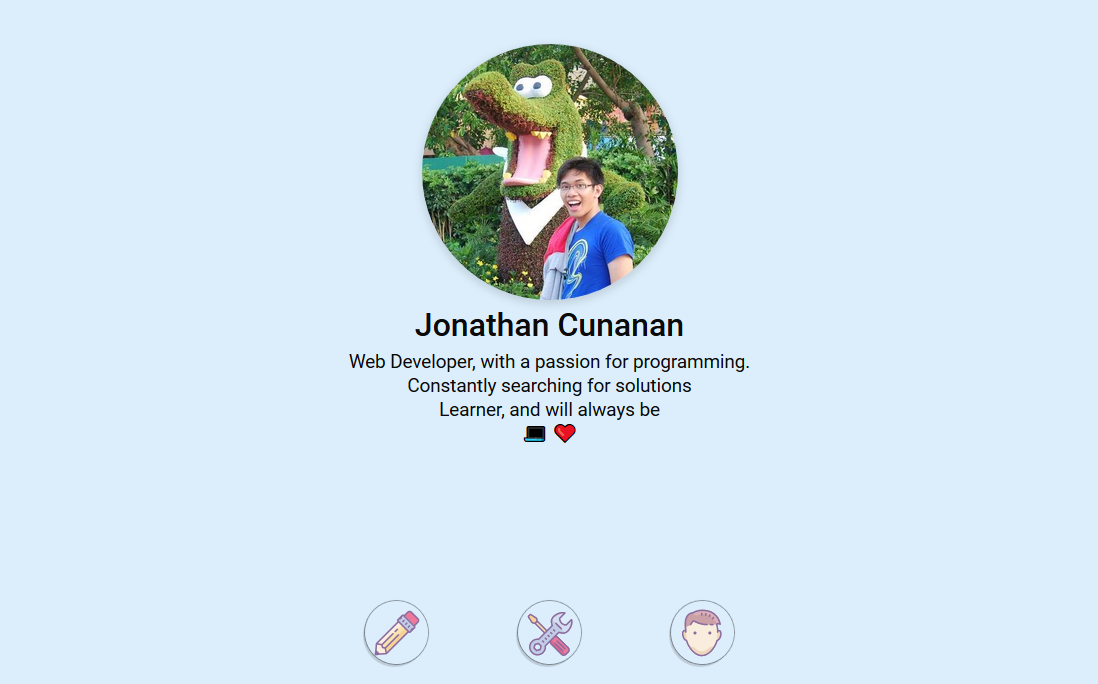
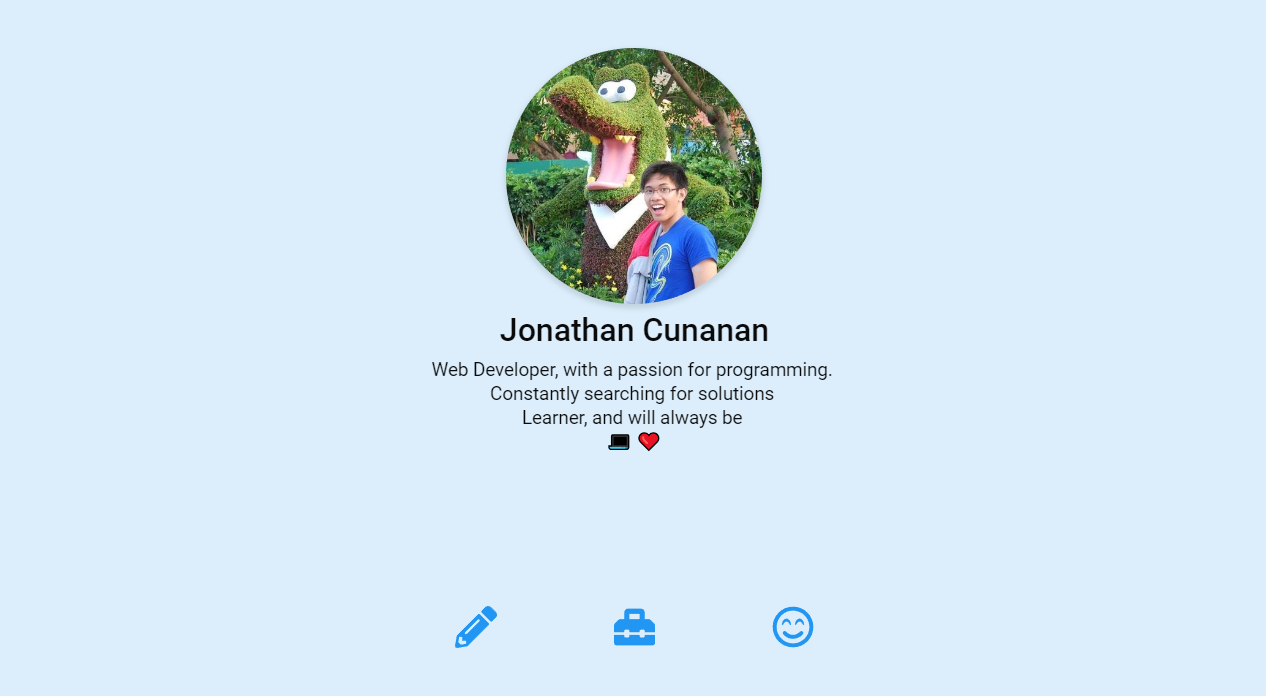
Fix Tiles, Fix Wrong links, Fix Typo on about, Fix broken header

diff --git a/index.html b/index.html
@@ -4,7 +4,7 @@
   <meta charset="UTF-8">
   <meta name="viewport" content="width=device-width, initial-scale=1.0">
   <meta http-equiv="X-UA-Compatible" content="ie=edge">
-  <link rel="stylesheet" href="css/autoprefix.css">
+  <link rel="stylesheet" href="css/style.css">
   <title>Jonathan Cunanan Portfolio</title>
 </head>
 <body>
@@ -25,15 +25,15 @@
             <ul class="navbar__list has-no-bullet">
               <li><a class="navbar-link js-navbar-link" href="#projects">
                 <p class="navbar-link__title is-hidden">Projects</p>
-                <img src="https://png.icons8.com/dusk/50/000000/edit.png" alt="pencil icon">
+                <i class="navbar-link__icon fas fa-pencil-alt" alt="pencil icon"></i>
               </a></li>
               <li><a class="navbar-link js-navbar-link" href="#tools">
                 <p class="navbar-link__title is-hidden">Tools</p>
-                <img src="https://png.icons8.com/dusk/50/000000/maintenance.png" alt="wrench and screw icon">
+                <i class="navbar-link__icon fas fa-toolbox" alt="toolbox icon"></i>
               </a></li>
               <li><a class="navbar-link js-navbar-link" href="#about">
                 <p class="navbar-link__title is-hidden">About</p>
-                <img src="https://png.icons8.com/dusk/50/000000/human-head.png" alt="head icon">
+                <i class="navbar-link__icon far fa-smile-beam" alt="about icon"></i>
               </a></li>
             </ul>
           </nav>
@@ -67,9 +67,9 @@
 
             <li class="project__item">
               <h3 class="project__title">
-                <a href="https://jcunanan05-technical-documentation.glitch.me/" target="_blank" rel="noopener noreferrer">My Portfolio</a>
+                <a href="https://jcunanan05.github.io/portfolio" target="_blank" rel="noopener noreferrer">My Portfolio</a>
               </h3>
-              <img class="project__image" src="images/portfolio.PNG" alt="Portfolio screenshot">
+              <img class="project__image" src="images/portfolio.PNG" alt="Portfolio screenshot">  
               <p class="project__description">
                 Of course, where can I show my projects without this portfolio site!! Had an amazing time exploring new techonlogies like CSS grid, feature queries, also with a little bit of flexbox! 
               </p>
@@ -105,7 +105,7 @@
             <img class="info__image is-rounded" src="https://avatars1.githubusercontent.com/u/25325842?s=460&v=4" alt="picture of Jonathan Albert Cunanan">
 
             <p class="info__description">
-              Hi, I'm Jonathan and I study web development and I like it so much! I am always excited about techonlogies in web! 
+              Hi, I'm Jonathan. I study web development and I like it so much! I am always excited about techonlogies in web! 
             </p>
 
             <ul class="social-media__list has-no-bullet">

diff --git a/css/style.css b/css/style.css
@@ -56,13 +56,11 @@ a:visited {
 }
 
 /* body elements to style */
-.main {
-  
-}
 
 /* all concerning the header */
 .header {
   height: 100vh;
+  min-height: 38rem;
   max-height: 50rem;
 }
 
@@ -100,16 +98,16 @@ a:visited {
 .navbar__list {
   display: flex;
   justify-content: center;
-  
-  padding: 0 0 0.5em 0;
+  padding: 0 0 3em 0;
+  margin: 0;
 }
 
 .navbar__list li {
   margin: 0 4vw;
-  border-radius: 50%;
-  box-shadow: 
-    0px 0px 1px 1px rgba(10, 10, 10, 0.4), 
-    -2px 3px 1px 0px rgba(10, 10, 10, 0.14);
+}
+
+a.navbar-link:visited {
+  color: var(--default-blue);
 }
 
 .navbar-link {
@@ -117,6 +115,10 @@ a:visited {
   justify-content: center;
   align-items: center;
   padding: 0.4em;
+}
+
+.navbar-link__icon {
+  font-size: 2.6em;
 }
 
 /* section details */
@@ -177,18 +179,18 @@ a:visited {
 }
 
 .tool__title {
-  font-weight: 500;
+  font-weight: 400;
   font-size: 1em;
   width: 100%;
   padding: 0;
-  margin: 0.5em 0;
+  margin: 0;
   order: 2;
 }
 
 .tool__image {
   display: block;
   width: 100%;
-  max-width: 14em;
+  max-width: 8em;
   order: 1;
 }
 
@@ -355,7 +357,7 @@ ul.has-no-bullet {
   .tool__list {
     display: grid;
     grid-template-columns: repeat(auto-fill, minmax(50px, 128px));
-    grid-auto-rows: min-content;
+    grid-auto-rows: minmax(50px, 170px);
     grid-gap: 1em 0.5em;
     grid-auto-flow: dense;
     justify-content: center;
@@ -364,18 +366,11 @@ ul.has-no-bullet {
   }
 
   .tool__item:nth-child(2n) {
-    grid-row: span 1;
-    grid-column: span 3;
-  }
-
-  .tool__item:nth-child(3n) {
-    grid-row: span 3;
-    grid-column: span 1;
+    grid-column: span 2;
   }
 
   .tool__item:nth-child(5n) {
     grid-row: span 2;
-    grid-column: span 1;
   }
 
   .tool__item:nth-child(7n) {
